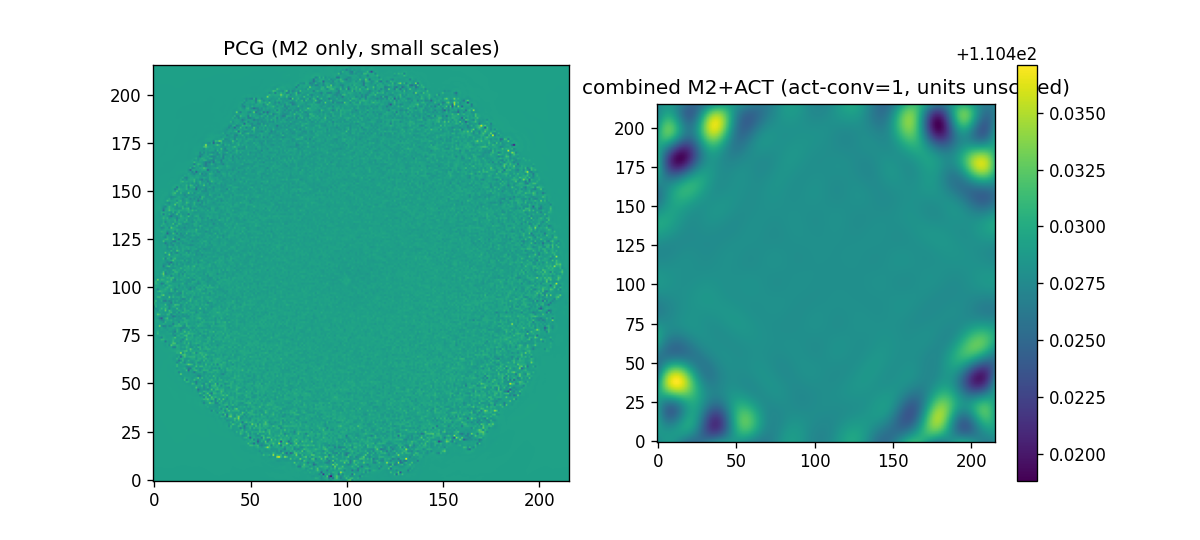
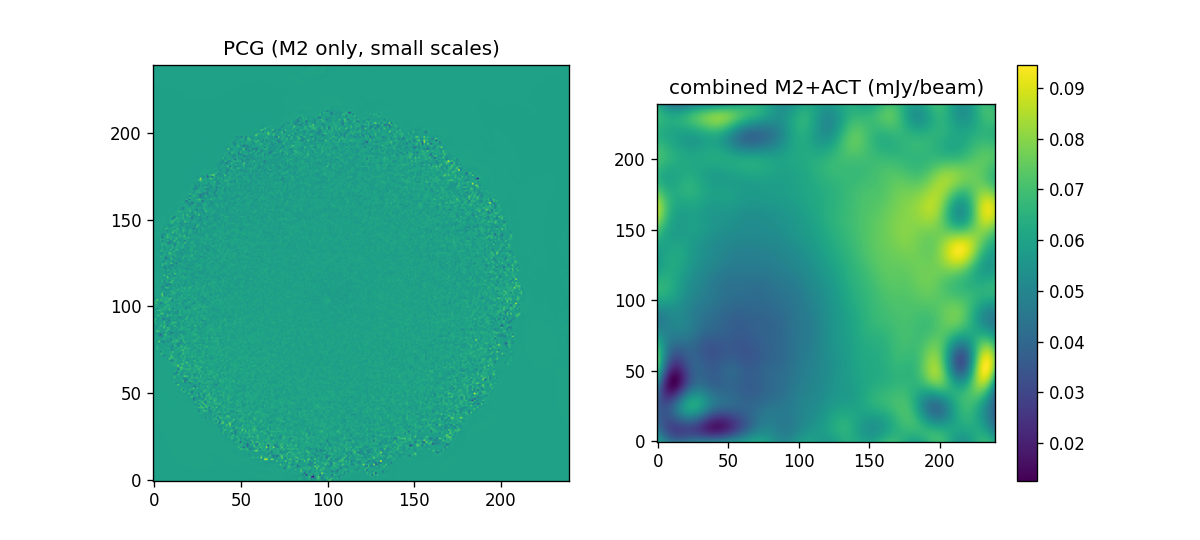
feat: ACT unit conversion, composite map size, noise cov TODO

diff --git a/reports/needlet.html b/reports/needlet.html
@@ -24,7 +24,8 @@
 
 <h2>Combined map</h2>
 <img src="figs/maps.png" alt="maps">
-<p><b>Caveat:</b> the ACT term needs a unit conversion (&micro;K to M2 units); with the default <code>--act-conv 1</code> the ACT map dominates and the combined map is not physically meaningful.</p>
+<p>ACT maps (&micro;K<sub>CMB</sub>) are converted to M2 units (mJy/beam, RJ) with <code>act_conversion</code>: thermodynamic to RJ temperature (matches <code>witch.utils.K_CMB2K_RJ</code>, 0.8146 at 90 GHz), then times the M2 beam solid angle. Defaults: 90 GHz, 9&Prime; FWHM beam, giving 4.37e-4 mJy/beam per &micro;K (override with <code>--freq</code>, <code>--m2-beam</code>, <code>--act-conv</code>). The ACT noise is the summed split ivar as a diagonal inverse covariance; TODO: replace with a robust map-space noise covariance estimate.</p>
+<p>The map size is chosen as the even size within 15% above the minimum that has the most divisors (218 &rarr; 240 here) so filters can be downsampled more.</p>
 
 <h2>Tests</h2>
 <p><code>tests/test_needlet.py</code>: band transforms vs full transforms, exact ANA vs brute force, probing accuracy, map response, solve round trip, colouring.</p>

diff --git a/examples/twores_ex.py b/examples/twores_ex.py
@@ -10,6 +10,7 @@ import glob
 import os
 import time
 
+import astropy.units as u
 import numpy as np
 from pixell import enmap, utils
 from scipy import sparse
@@ -17,7 +18,13 @@ from scipy import sparse
 import minkasi.minkasi_all as minkasi
 from minkasi.maps.mapset import Mapset
 from minkasi.maps.skymap import SkyMap
-from minkasi.needlet.needlet import Needlet, WavSkyMap, map2wav_real, wav2map_real
+from minkasi.needlet.needlet import (
+    Needlet,
+    WavSkyMap,
+    highly_composite_size,
+    map2wav_real,
+    wav2map_real,
+)
 
 
 def load_response(prefix, nfilt):
@@ -79,6 +86,60 @@ def cached(prefix, compute, redo, nfilt):
     if minkasi.myrank == 0:
         save_response(prefix, resp)
     return resp
+
+
+def act_conversion(freq=90e9, beam_fwhm=9.0):
+    """
+    Factor converting ACT maps (uK CMB) to the units of the M2 data (mJy/beam, RJ).
+
+    Parameters
+    ----------
+    freq : float, default: 90e9
+        Observing frequency in Hz.
+    beam_fwhm : float, default: 9.0
+        FWHM of the M2 beam in arcsec.
+
+    Returns
+    -------
+    float
+        mJy/beam per uK_CMB.
+    """
+    omega = (2 * np.pi * (beam_fwhm * u.arcsec / (8 * np.log(2)) ** 0.5) ** 2).to(u.sr)
+    equiv = u.thermodynamic_temperature(freq * u.Hz, 2.7255 * u.K)
+    return ((1 * u.uK).to(u.mJy / u.sr, equiv) * omega).to_value(u.mJy)
+
+
+def setup_wmap(todvec, pixsize, nfilt):
+    """
+    Build the needlet and the WavSkyMap covering the TODs. The map is square with a highly
+    composite size so that filters can be downsampled by many factors; the bounds only need
+    to contain the data.
+
+    Parameters
+    ----------
+    todvec : TodVec
+        TODs to cover.
+    pixsize : float
+        Pixel size in arcsec.
+    nfilt : int
+        Number of needlet filters.
+
+    Returns
+    -------
+    wmap : WavSkyMap
+    """
+    lims = todvec.lims()
+    ps = pixsize / 3600 * np.pi / 180
+    n0 = SkyMap(lims, ps, square=True, multiple=2).map.shape[0]
+    n = highly_composite_size(n0)
+    box = SkyMap(lims, ps, nx=n, ny=n).map
+    need = Needlet(
+        np.arange(nfilt), lightcone=box, L=n * pixsize * np.sqrt(2), pixsize=pixsize
+    )
+    need.get_needlet_filters_2d(
+        need.lightcone_box.get_grid_dimless_2d(return_grid=True)
+    )
+    return WavSkyMap(need, lims, ps, nx=n, ny=n)
 
 
 def read_tods(idir, ntods):
@@ -172,21 +233,8 @@ def main(args):
     """
     todvec = read_tods(args.idir, args.ntods)
     lims = todvec.lims()
-    pixsize = args.pixsize / 3600 * np.pi / 180
-
-    box = SkyMap(
-        lims, pixsize, square=True, multiple=2
-    ).map  # geometry to build the filters
-    need = Needlet(
-        np.arange(args.nfilt),
-        lightcone=box,
-        L=box.shape[0] * args.pixsize * np.sqrt(2),
-        pixsize=args.pixsize,
-    )
-    need.get_needlet_filters_2d(
-        need.lightcone_box.get_grid_dimless_2d(return_grid=True)
-    )
-    wmap = WavSkyMap(need, lims, pixsize, square=True, multiple=2)
+    wmap = setup_wmap(todvec, args.pixsize, args.nfilt)
+    need = wmap.needlet
 
     for tod in todvec.tods:
         tod.info["ipix"] = wmap.get_pix(tod)
@@ -247,7 +295,15 @@ def main(args):
         paths = paths[:2]
     if paths:
         t1 = time.time()
-        ivar, wdata = read_act(paths, lims, wmap, hits, conv=args.act_conv)
+        # TODO: ivar is treated as a diagonal map space inverse covariance. Replace this with a
+        # robust map space noise covariance estimate once we have one (see tools.noise_estimation).
+        ivar, wdata = read_act(
+            paths,
+            lims,
+            wmap,
+            hits,
+            conv=args.act_conv or act_conversion(args.freq, args.m2_beam),
+        )
         act_rhs = map2wav_real(wdata, wmap.needlet.filters)[0]
         print(f"reading ACT took {time.time() - t1:.1f} s")
         responses.append(
@@ -284,7 +340,16 @@ if __name__ == "__main__":
         default="/mnt/welch/USERS/jorlo/maps/dr6_20230316_splits/cmb_night_*_f090_3pass_4way_set*_ivar.fits",
     )
     parser.add_argument(
-        "--act-conv", type=float, default=1.0, help="ACT map units to M2 units"
+        "--act-conv",
+        type=float,
+        default=None,
+        help="ACT map units (uK_CMB) to M2 units; default computed from --freq and --m2-beam",
+    )
+    parser.add_argument(
+        "--freq", type=float, default=90e9, help="Hz, for the unit conversion"
+    )
+    parser.add_argument(
+        "--m2-beam", type=float, default=9.0, help="M2 beam FWHM in arcsec"
     )
     parser.add_argument("--ntods", type=int, default=2)
     parser.add_argument("--nfilt", type=int, default=10)

diff --git a/examples/needlet_benchmark.py b/examples/needlet_benchmark.py
@@ -7,14 +7,11 @@ import json
 import os
 import time
 
-import numpy as np
 from matplotlib import pyplot as plt
 from astropy.io import fits
 
 import minkasi.minkasi_all as minkasi
-from minkasi.maps.skymap import SkyMap
-from minkasi.needlet.needlet import Needlet, WavSkyMap
-from twores_ex import read_tods
+from twores_ex import read_tods, setup_wmap
 
 
 def main(args):
@@ -29,19 +26,8 @@ def main(args):
     os.makedirs(args.odir, exist_ok=True)
     todvec = read_tods(args.idir, 1)
     pix = args.pixsize
-    ps = pix / 3600 * np.pi / 180
-    lims = todvec.lims()
-    box = SkyMap(lims, ps, square=True, multiple=2).map
-    need = Needlet(
-        np.arange(args.nfilt),
-        lightcone=box,
-        L=box.shape[0] * pix * np.sqrt(2),
-        pixsize=pix,
-    )
-    need.get_needlet_filters_2d(
-        need.lightcone_box.get_grid_dimless_2d(return_grid=True)
-    )
-    wmap = WavSkyMap(need, lims, ps, square=True, multiple=2)
+    wmap = setup_wmap(todvec, pix, args.nfilt)
+    need = wmap.needlet
     for tod in todvec.tods:
         tod.info["ipix"] = wmap.get_pix(tod)
         tod.set_noise(minkasi.NoiseSmoothedSVD)

diff --git a/minkasi/needlet/needlet.py b/minkasi/needlet/needlet.py
@@ -47,6 +47,26 @@ def factors(n):
     )
 
 
+def highly_composite_size(n, slack=0.15):
+    """
+    Pick a map size with many divisors, so that the filters can be downsampled more aggressively.
+
+    Parameters
+    ----------
+    n : int
+        Minimum size.
+    slack : float, default: 0.15
+        Maximum fractional increase over n.
+
+    Returns
+    -------
+    int
+        The even integer in [n, n*(1+slack)] with the most divisors (the smallest of ties).
+    """
+    cands = [m for m in range(int(n), int(np.ceil(n * (1 + slack))) + 1) if m % 2 == 0]
+    return max(cands, key=lambda m: (len(factors(m)), -m))
+
+
 def color_groups(n, width):
     """
     Split a periodic lattice of n points into groups (colors) such that any two points of
